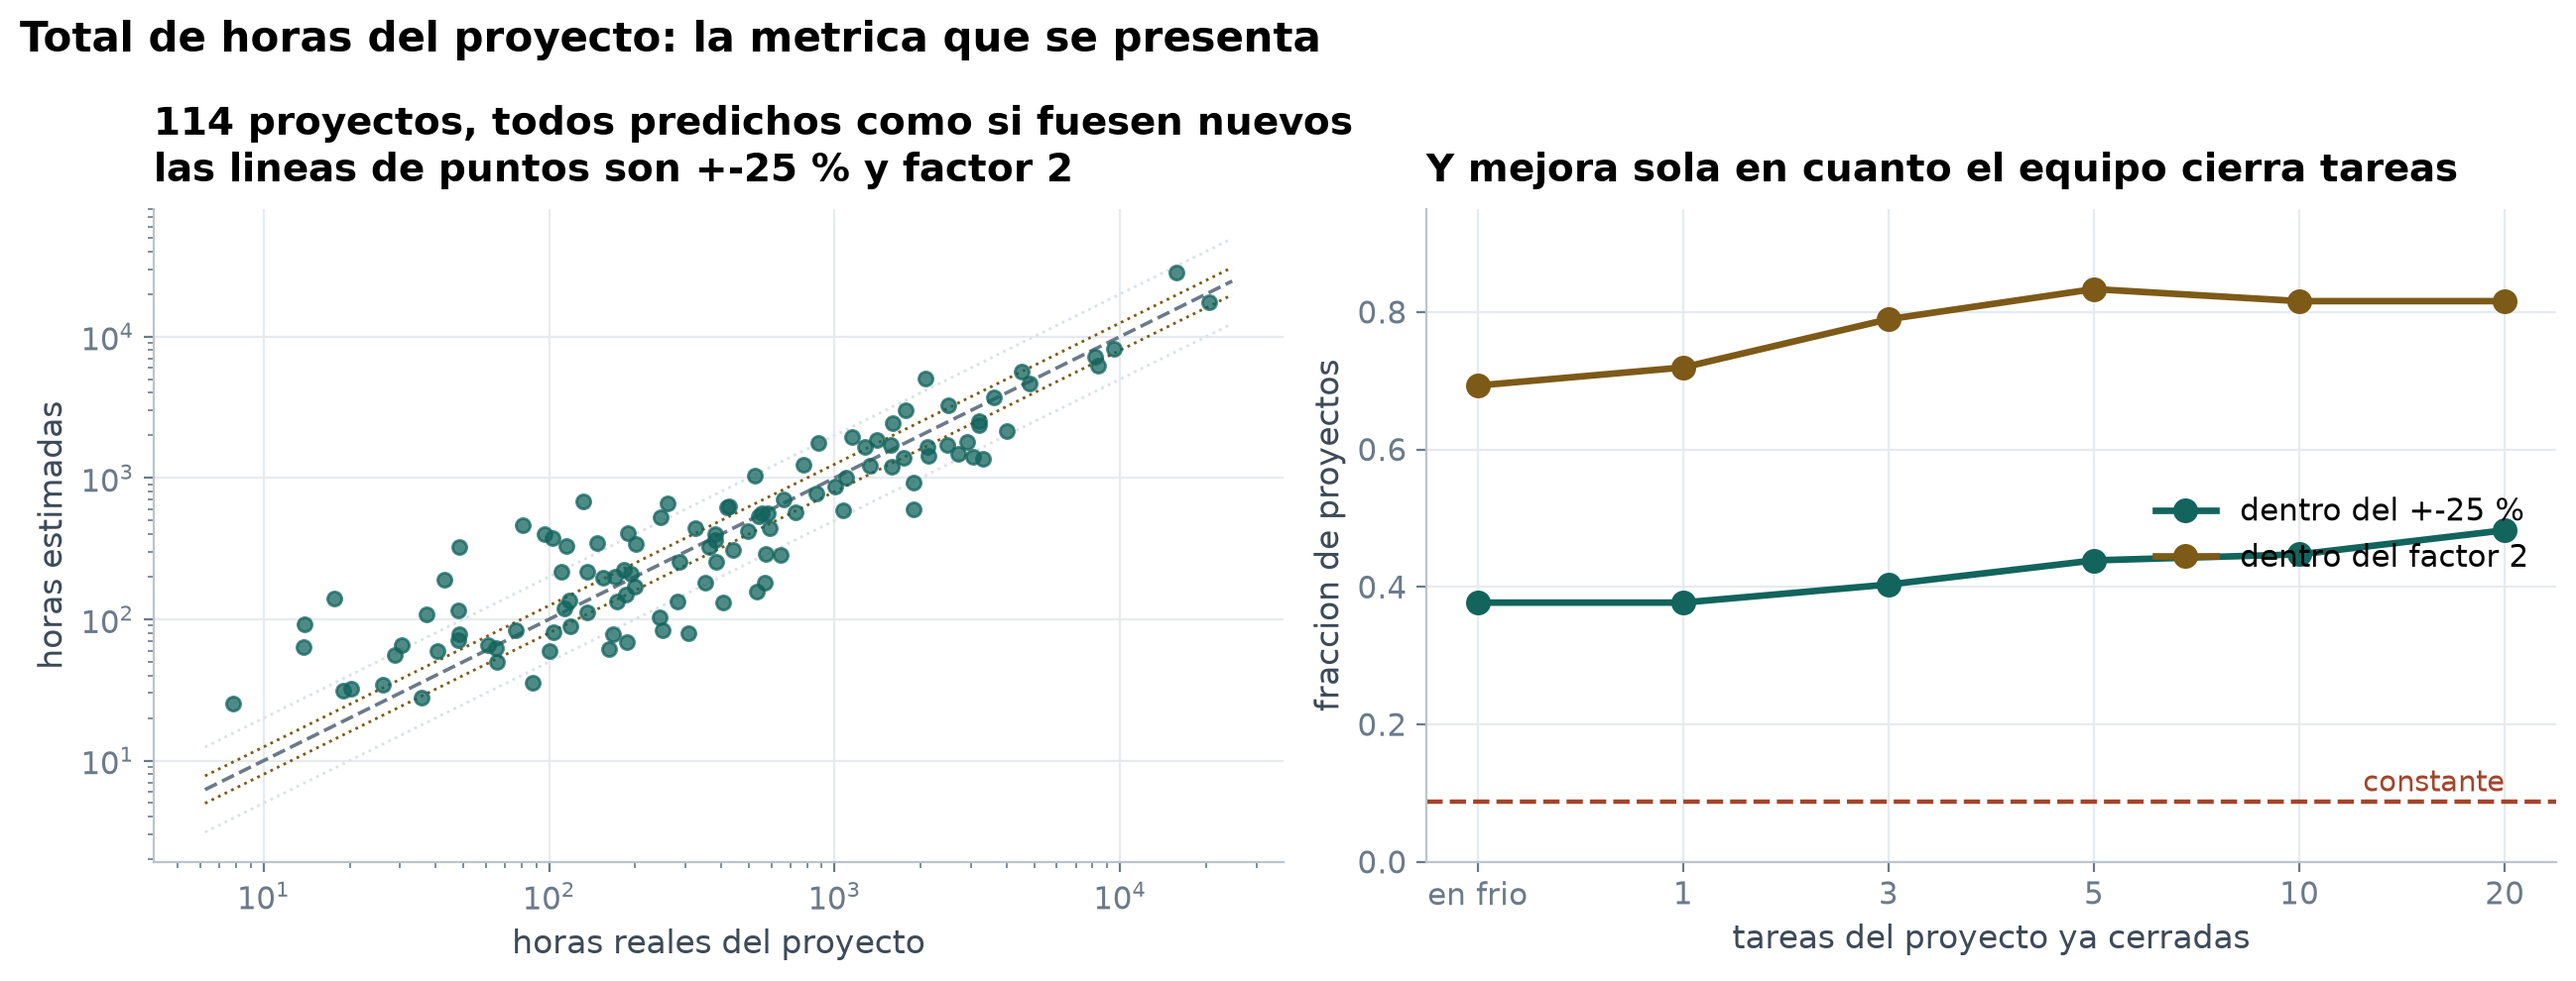
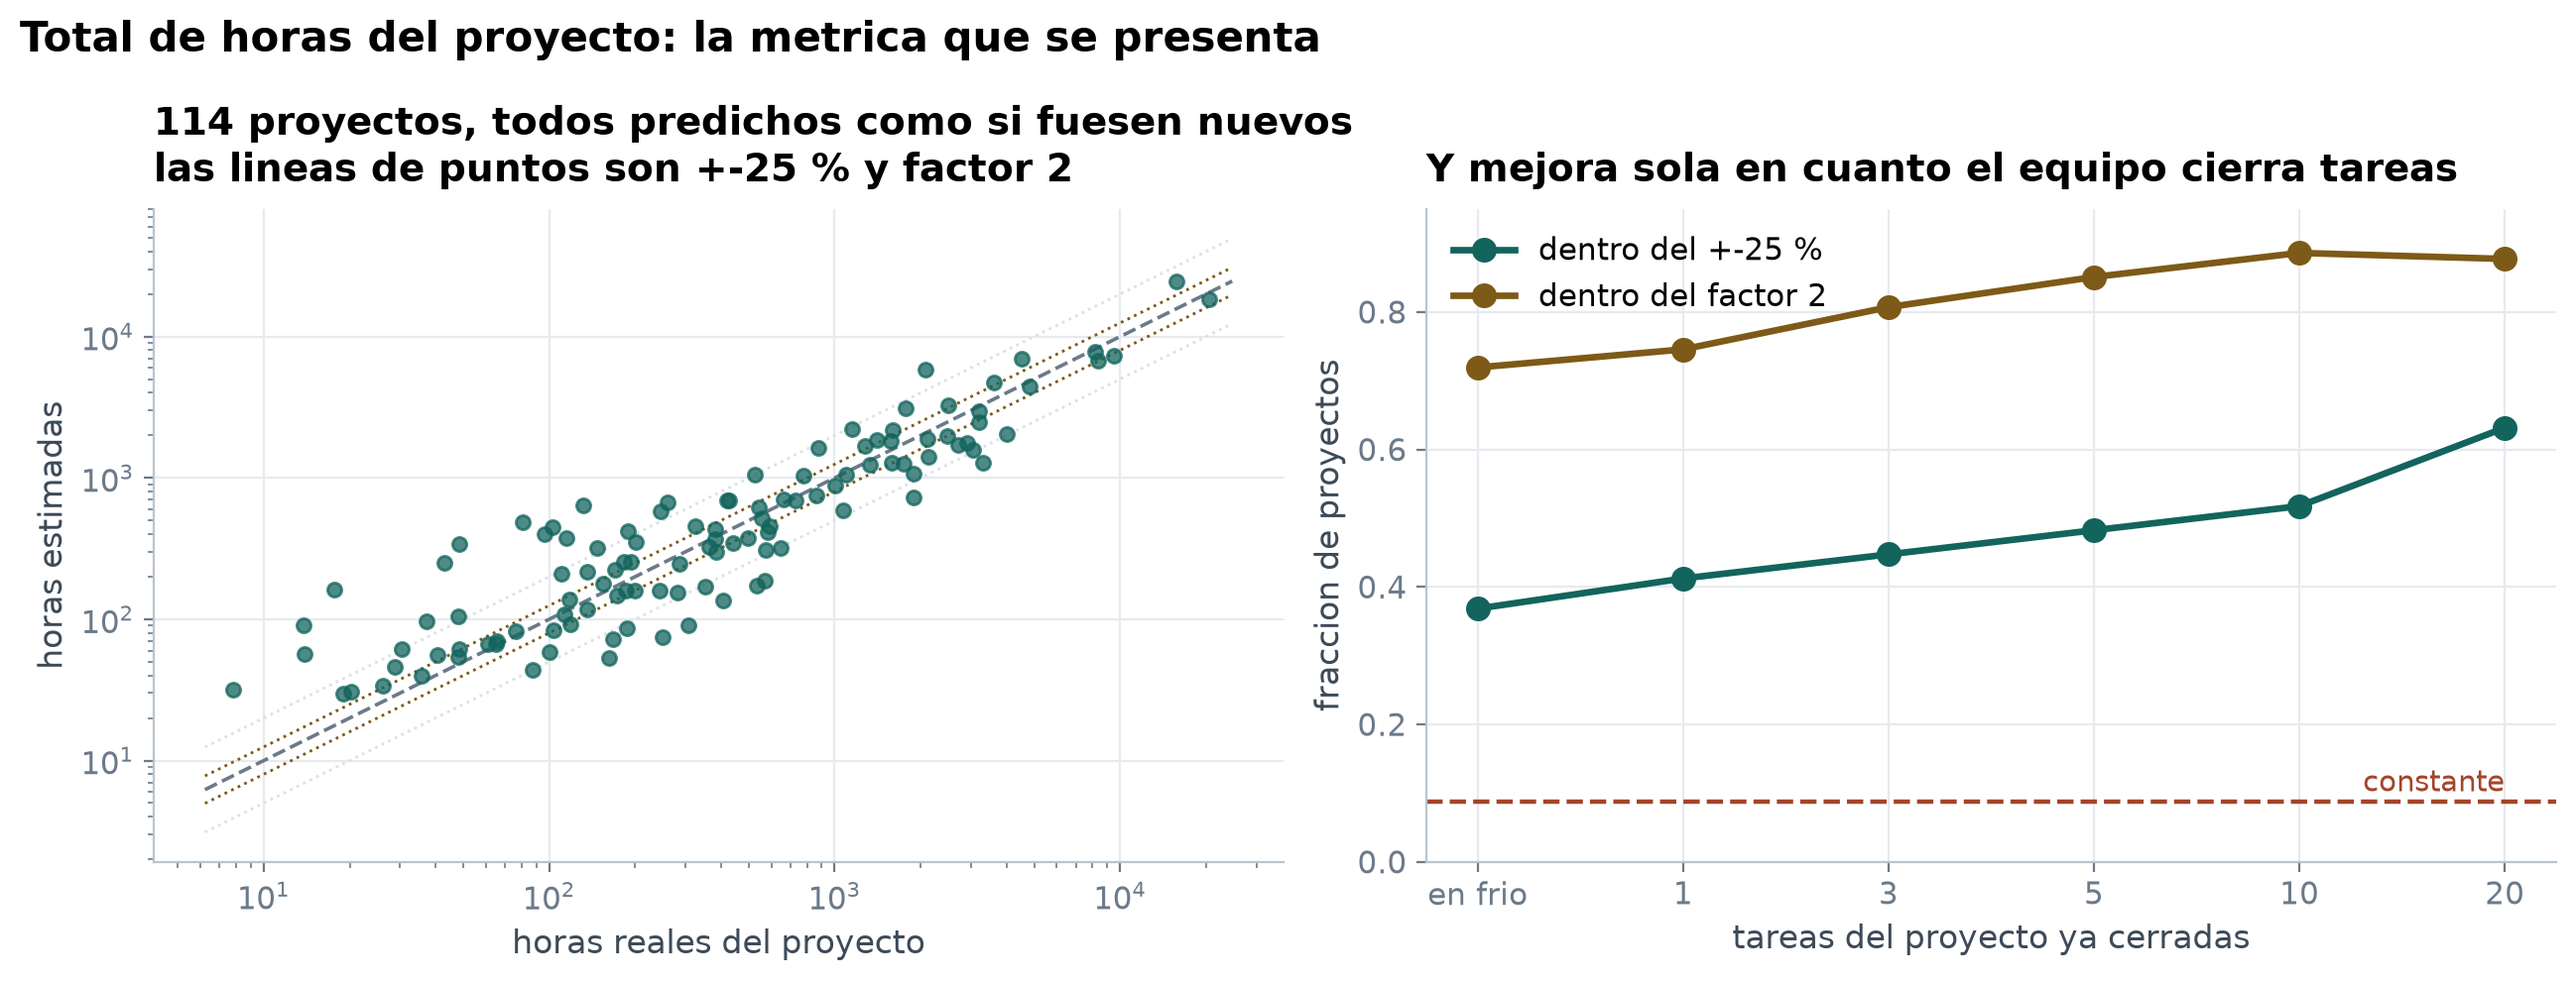
Figuras y deck con la curva corregida

diff --git a/estimador/src/141_figuras_metricas.py b/estimador/src/141_figuras_metricas.py
@@ -231,8 +231,8 @@ def analogia():
 
 def total_proyecto():
     """La metrica de presentacion: acertar el total de horas del proyecto."""
-    r = pd.read_csv("results/mejorar_total/resumen.csv")
-    t = pd.read_csv("results/total_proyecto/totales.csv")
+    r = pd.read_csv("results/curva_final/resumen.csv")
+    t = pd.read_csv("results/curva_final/totales.csv")
     fig, (a1, a2) = plt.subplots(1, 2, figsize=(13.0, 5.0))
     a1.loglog([t.real.min() * .8, t.real.max() * 1.2],
               [t.real.min() * .8, t.real.max() * 1.2], color=GRIS, lw=1.3, ls="--")
@@ -241,14 +241,14 @@ def total_proyecto():
             a1.loglog([t.real.min() * .8, t.real.max() * 1.2],
                       [t.real.min() * .8 * k, t.real.max() * 1.2 * k],
                       color=c, lw=1, ls=":")
-    a1.scatter(t.real, t.mod_sm, s=26, color=TINTA, alpha=.75, zorder=3)
+    a1.scatter(t.real, t.frio, s=26, color=TINTA, alpha=.75, zorder=3)
     a1.set_xlabel("horas reales del proyecto")
     a1.set_ylabel("horas estimadas")
     a1.set_title("114 proyectos, todos predichos como si fuesen nuevos" + NL +
                  "las lineas de puntos son +-25 % y factor 2")
-    ks = ["1b · frio, smearing por tramo", "2 · con 1 tarea cerrada",
-          "2 · con 3 tareas cerradas", "2 · con 5 tareas cerradas",
-          "2 · con 10 tareas cerradas", "2 · con 20 tareas cerradas"]
+    ks = ["1 · en frio"] + [f"2 · con {k} tarea{'s' if k > 1 else ''} "
+                            f"cerrada{'s' if k > 1 else ''} (cociente de sumas)"
+                            for k in (1, 3, 5, 10, 20)]
     v = r.set_index("brazo").reindex(ks)
     x = np.arange(len(ks))
     a2.plot(x, v.PRED25, "o-", color=TINTA, lw=2.4, ms=8, label="dentro del +-25 %")
@@ -261,7 +261,7 @@ def total_proyecto():
     a2.set_xlabel("tareas del proyecto ya cerradas")
     a2.set_ylabel("fraccion de proyectos")
     a2.set_ylim(0, .95)
-    a2.legend(loc="center right")
+    a2.legend(loc="upper left")
     a2.set_title("Y mejora sola en cuanto el equipo cierra tareas")
     fig.suptitle("Total de horas del proyecto: la metrica que se presenta",
                  x=.005, ha="left", fontsize=15, weight="600")

diff --git a/estimador/src/152_pptx_exposicion.py b/estimador/src/152_pptx_exposicion.py
@@ -29,13 +29,13 @@ def pc(v):
 
 
 def main():
-    tot = pd.read_csv("results/mejorar_total/resumen.csv").set_index("brazo")
+    tot = pd.read_csv("results/curva_final/resumen.csv").set_index("brazo")
     ins = pd.read_csv("results/total_insesgado/resumen.csv").set_index("brazo")
-    tam = pd.read_csv("results/mejorar_total/../total_proyecto/por_tamano.csv")
+    tam = pd.read_csv("results/curva_final/por_tamano.csv")
     ana = pd.read_csv("results/analogia/resumen.csv")
     pan = pd.read_csv("results/panel/panel.csv")
-    frio = tot.loc["1b · frio, smearing por tramo"]
-    k5 = tot.loc["2 · con 5 tareas cerradas"]
+    frio = tot.loc["1 · en frio"]
+    k5 = tot.loc["2 · con 5 tareas cerradas (cociente de sumas)"]
     cte = tot.loc["0 · constante (n x mediana)"]
     prs = P.nueva()
 
@@ -112,11 +112,11 @@ def main():
     s, y0 = P.lamina(prs, "Mejora sola con el uso",
                  "Tareas cerradas del proyecto frente a acierto del total.")
     filas = []
-    for etq, c in (("en frío", "1b · frio, smearing por tramo"),
-                   ("1 tarea cerrada", "2 · con 1 tarea cerrada"),
-                   ("3 tareas cerradas", "2 · con 3 tareas cerradas"),
-                   ("5 tareas cerradas", "2 · con 5 tareas cerradas"),
-                   ("20 tareas cerradas", "2 · con 20 tareas cerradas")):
+    for etq, c in (("en frío", "1 · en frio"),
+                   ("1 tarea cerrada", "2 · con 1 tarea cerrada (cociente de sumas)"),
+                   ("3 tareas cerradas", "2 · con 3 tareas cerradas (cociente de sumas)"),
+                   ("5 tareas cerradas", "2 · con 5 tareas cerradas (cociente de sumas)"),
+                   ("20 tareas cerradas", "2 · con 20 tareas cerradas (cociente de sumas)")):
         r = tot.loc[c]
         filas.append([etq, n(r.MAE_h, 0), n(r.MdMRE), n(r.R2_log), pc(r.PRED25),
                       pc(r.factor2)])
